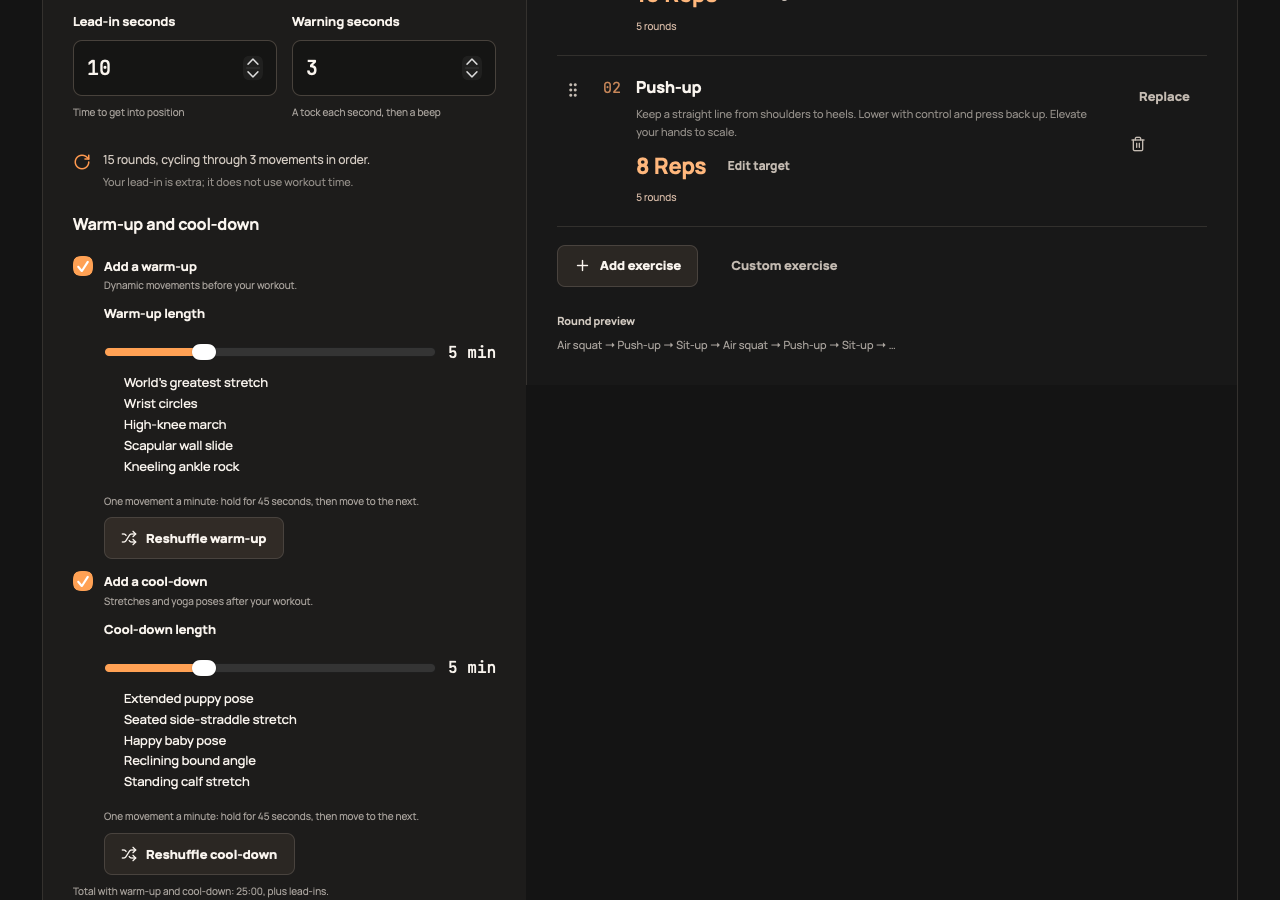
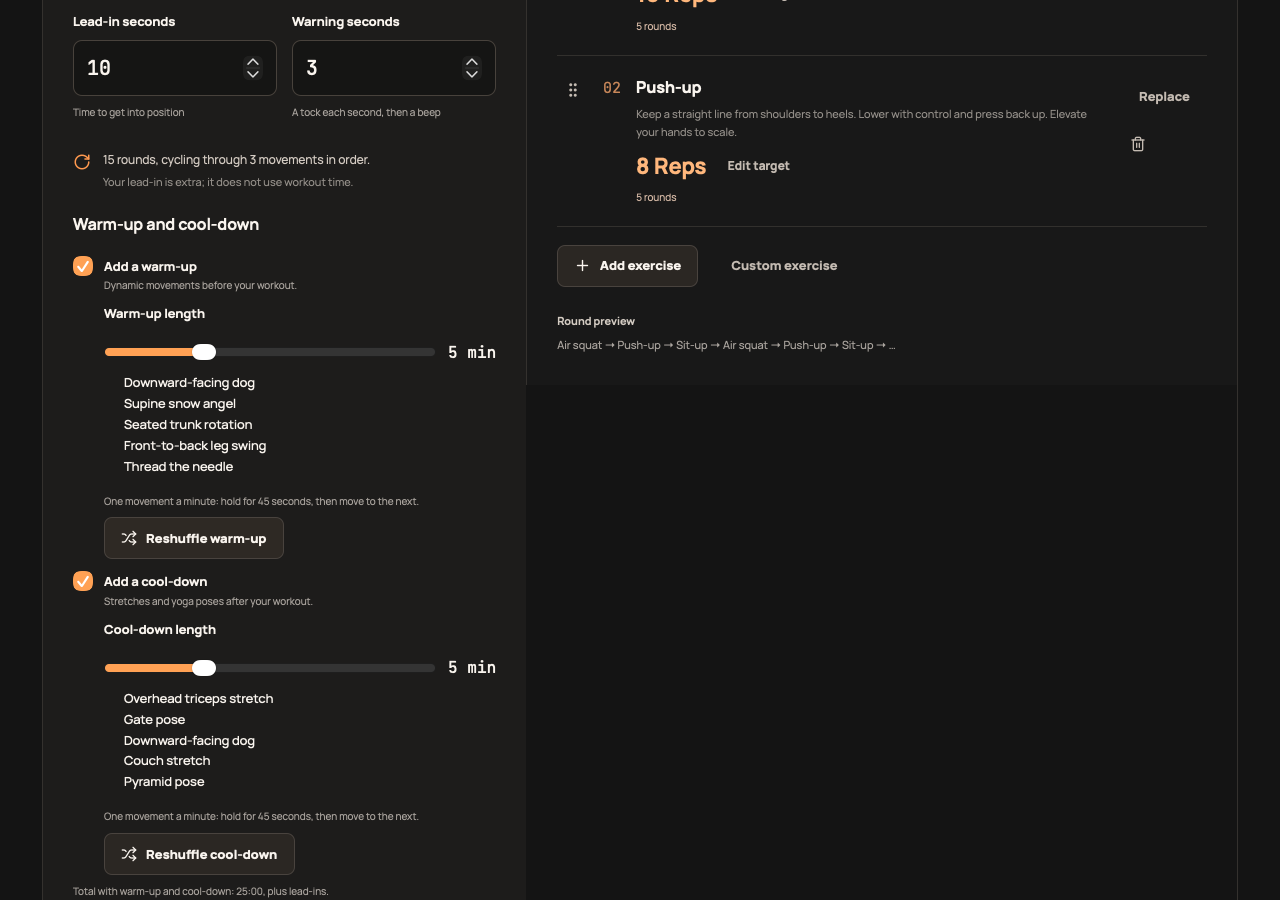
Release 3.1.0: warm-ups, cool-downs and 30 phase exercises
Bump all versions to 3.1.0 and add release notes, App Store notes, the
validation record, README highlights and WebKit screenshots.

Refs #470

Changed region(s): [[0.0938, 0.7467, 0.2188, 0.8711], [0.0938, 0.4044, 0.2188, 0.5289]]

diff --git a/docs/validation-3.1.0.md b/docs/validation-3.1.0.md
@@ -1,0 +1,35 @@
+# 3.1.0 validation
+
+Epic [#465](https://github.com/StormKiln/NextRound/issues/465); publication [#470](https://github.com/StormKiln/NextRound/issues/470). Implementation is in #472 (phase tags and 30 exercises, #466 and #467) and #473 (warm-up and cool-down options and runs, #468 and #469), stacked under this release.
+
+## Catalog
+The catalog grows from 443 to 473 records. `catalog-310.test.ts` checks the first 443 against the new `catalog-2120-baseline.json` and checks every addition's metadata, aliases, phase tags and generated targets for each mode. 44 movements are tagged warm-up and 53 cool-down, with one carrying both, so either pool fills a 15-minute block. Personal exercises carry an optional `phases` field through the TS and Rust validators, backup and copy. Older files load unchanged.
+
+## Warm-up and cool-down
+Unit tests cover the preference defaults and tolerance, picking and config building (`bookends.test.ts`). They also cover the full store sequence (`bookend-run.test.ts`):
+- warm-up, then main, then cool-down, with the native cue flags at each part;
+- one main result carrying `warmupMs` and `cooldownMs`, resolved once natively;
+- Skip warm-up and End cool-down;
+- a cool-down that fails to start, which keeps the main result;
+- Repeat;
+- unchanged behavior with neither option on.
+
+A Rust test bounds the optional history fields and round-trips them.
+
+Browser checks in `release-310.spec.ts` and `phases-310.spec.ts`:
+- Options in all six modes, slider bounds, the default, hide-and-keep, persistence across reload, and reshuffle.
+- A clock-driven Countdown run with a 1-minute warm-up and cool-down: hold and change-position states, automatic transitions, pause and resume, End cool-down, the completion summary and Save. Also Skip warm-up.
+- Phase filtering in the library and picker, and personal tagging.
+
+Results: 11/11 passed in Chromium and 9/9 of `release-310.spec.ts` in WebKit.
+
+These checks found and fixed a real defect before merge. After a cool-down, polling replaced the completion screen's workout snapshot with the finished cool-down. A unit regression test now covers it. The full-run e2e test also got a 90-second budget, because more than three minutes of simulated time came close to the default 30-second limit.
+
+Screenshots `warmup-cooldown.png` and `warmup-runner.png` are WebKit captures from `release-310.spec.ts` with `NEXTROUND_CAPTURE=1`, against the browser build with isolated sample data.
+
+## Not observed
+- A physical-Mac run of the native app with real audio cues at the part transitions.
+- The Spotify between-parts behavior on device.
+- A TestFlight tester installation.
+
+Results from the tagged release are recorded on #470.

diff --git a/docs/release-notes-3.1.0.md b/docs/release-notes-3.1.0.md
@@ -1,0 +1,15 @@
+# NextRound 3.1.0
+
+## Warm up and cool down with every workout
+Every workout setup now has **Add a warm-up** and **Add a cool-down**. Check one to choose its length with a slider: 1 to 15 minutes, starting at 5. NextRound previews one movement per minute; use **Reshuffle** for a different set. The total time shows how long the whole session takes. Your choices are remembered for next time and apply to every workout type.
+
+When you start, the warm-up runs first, then your workout, then the cool-down. Each warm-up and cool-down minute is a 45-second hold, marked by the done cue, followed by 15 seconds to change position before the next beep. The screen shows the current and next movement and the time left. Use **Skip warm-up** to go straight to your workout, or **End cool-down** to finish early. Only the very end plays the completion sound, and Spotify keeps playing between parts if you use Spotify control.
+
+Your workout's result works exactly as before, with the same history, comparisons and scoring. History also notes how long you warmed up and cooled down. Repeat runs the same warm-up and cool-down again.
+
+## Thirty new warm-up and cool-down movements
+The library grows from 443 to 473 exercises.
+- **Warm-ups:** World's greatest stretch, walking knee hugs and quad pulls, standing torso rotations, scapular wall slides, high-knee marches, lateral lunge shifts, walking leg cradles, straight-leg kick walks, half-kneeling thoracic rotations, squat-to-stands, kneeling ankle rocks, standing side reaches, reverse lunges with an overhead reach and standing cat-camels.
+- **Cool-downs:** Pigeon, legs up the wall, doorway chest and hamstring stretches, couch stretch, banana stretch, frog pose, sleeper stretch, kneeling wrist and toe stretches, corpse pose, seated neck stretch, wall lat stretch, supine knee drops and an easy-pose forward fold.
+
+Existing mobility movements that fit are tagged too, giving 44 warm-up and 53 cool-down options. Filter the library and exercise picker by **Workout phase**, and tag your own exercises as warm-up or cool-down movements in the exercise form.

diff --git a/README.md b/README.md
@@ -6,7 +6,19 @@ Plan your workout. Run the clock. Track your progress.
 
 NextRound is an offline workout timer and planner for **Apple Silicon Macs running macOS 14 or later**. No account is required. Workouts, personal exercises, preferences and saved results stay on your Mac.
 
-**Current release: 3.0.0.** [Download for macOS](https://github.com/StormKiln/NextRound/releases/latest) · [Release notes](docs/release-notes-3.0.0.md) · [Privacy policy](PRIVACY.md)
+**Current release: 3.1.0.** [Download for macOS](https://github.com/StormKiln/NextRound/releases/latest) · [Release notes](docs/release-notes-3.1.0.md) · [Privacy policy](PRIVACY.md)
+
+## Warm up and cool down
+
+Check **Add a warm-up** or **Add a cool-down** in any workout setup and choose 1–15 minutes with the slider (5 by default). NextRound previews one movement per minute, which you can reshuffle. It runs the warm-up before your workout and the cool-down after, holding each movement for 45 seconds. Your workout's result, history and comparisons stay exactly as before.
+
+![Warm-up and cool-down options](docs/screenshots/warmup-cooldown.png)
+
+![Warm-up runner](docs/screenshots/warmup-runner.png)
+
+These 3.1.0 WebKit captures use isolated sample data.
+
+The library now includes **473 exercises**, with 30 new dynamic warm-ups, deep stretches and yoga poses. Filter by workout phase or tag your own exercises.
 
 ## Train with Spotify
 

diff --git a/docs/app-store-3.1.0.md b/docs/app-store-3.1.0.md
@@ -1,0 +1,5 @@
+# App Store / TestFlight 3.1.0
+
+Warm up and cool down with every workout. Add a timed warm-up before and a cool-down after any workout type, 1 to 15 minutes each, with one guided movement per minute. Thirty new dynamic warm-ups, deep stretches and yoga poses join the library, and you can filter exercises and tag your own by workout phase.
+
+Review notes: No account, paid content, public user-generated content or external service is required for core functionality. Data stays on the Mac. App Store/TestFlight builds update through Apple. Optional Spotify control is unchanged from 3.0.0 and off by default. Test: open any workout setup, check Add a warm-up and Add a cool-down, set each slider to 1 minute, then start. The warm-up runs first, then the workout, then the cool-down. Skip warm-up and End cool-down move on early. The completion screen shows the main result with the warm-up and cool-down durations.
